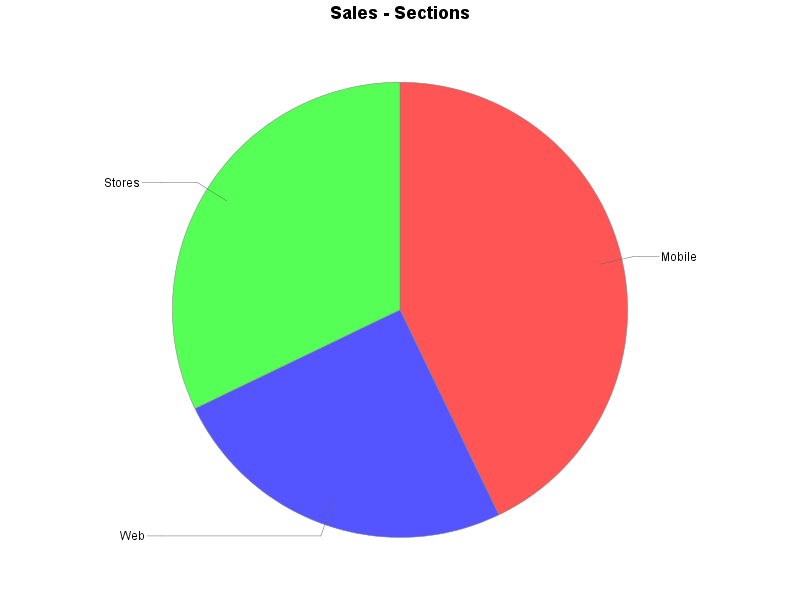
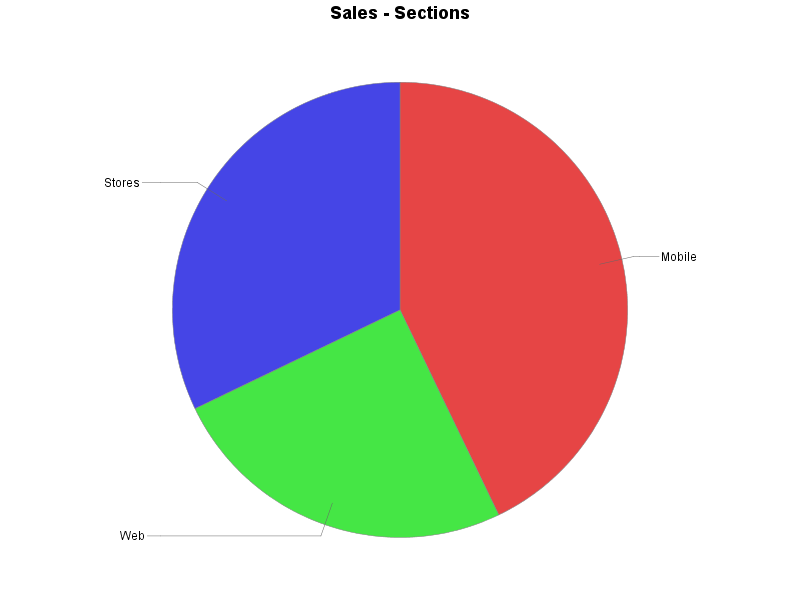
add data color theme support (wheen and random)

diff --git a/ch.obermuhlner.csv2chart/src/main/java/ch/obermuhlner/csv2chart/Application.java b/ch.obermuhlner.csv2chart/src/main/java/ch/obermuhlner/csv2chart/Application.java
@@ -1,9 +1,6 @@
 package ch.obermuhlner.csv2chart;
 
-import java.awt.BasicStroke;
-import java.awt.Color;
-import java.awt.Font;
-import java.awt.Rectangle;
+import java.awt.*;
 import java.io.BufferedOutputStream;
 import java.io.BufferedReader;
 import java.io.File;
@@ -16,11 +13,9 @@ import java.io.Reader;
 import java.io.Writer;
 import java.nio.file.Path;
 import java.nio.file.Paths;
-import java.util.ArrayList;
+import java.util.*;
 import java.util.List;
-import java.util.Locale;
 import java.util.Map.Entry;
-import java.util.Properties;
 
 import org.jfree.chart.ChartUtilities;
 import org.jfree.chart.JFreeChart;
@@ -28,12 +23,7 @@ import org.jfree.chart.StandardChartTheme;
 import org.jfree.chart.block.BlockBorder;
 import org.jfree.chart.labels.BubbleXYItemLabelGenerator;
 import org.jfree.chart.labels.StandardXYItemLabelGenerator;
-import org.jfree.chart.plot.CategoryPlot;
-import org.jfree.chart.plot.MultiplePiePlot;
-import org.jfree.chart.plot.PieLabelLinkStyle;
-import org.jfree.chart.plot.PiePlot;
-import org.jfree.chart.plot.Plot;
-import org.jfree.chart.plot.XYPlot;
+import org.jfree.chart.plot.*;
 import org.jfree.chart.renderer.category.BarRenderer;
 import org.jfree.chart.renderer.category.CategoryItemRenderer;
 import org.jfree.chart.renderer.category.StandardBarPainter;
@@ -136,12 +126,12 @@ public class Application {
 			
 			ChartFactory chartFactory = createChartFactory(parameters);
 			JFreeChart chart = chartFactory.createChart(dataModel, parameters);
-			modifyTheme(chart, parameters);
+			modifyTheme(chart, dataModel, parameters);
 			
 			saveChartImage(chart, baseFilename, parameters);
 		}		
 	}
-	
+
 	private static void printHelp() {
 		System.out.println("NAME");
 		System.out.println("    csv2chart - create chart from csv file");
@@ -226,7 +216,7 @@ public class Application {
 		}
 	}
 
-	private static void modifyTheme(JFreeChart chart, Parameters parameters) {
+	private static void modifyTheme(JFreeChart chart, DataModel dataModel, Parameters parameters) {
 		String fontName = "Helvetica";
 		
 		StandardChartTheme theme = (StandardChartTheme) org.jfree.chart.StandardChartTheme.createJFreeTheme();
@@ -234,7 +224,16 @@ public class Application {
 		chart.setTextAntiAlias(true);
 		chart.setAntiAlias(true);
 
+		DrawingSupplier drawingSupplier = new DefaultDrawingSupplier(
+				createColors(parameters),
+				DefaultDrawingSupplier.DEFAULT_FILL_PAINT_SEQUENCE,
+				DefaultDrawingSupplier.DEFAULT_OUTLINE_PAINT_SEQUENCE,
+				DefaultDrawingSupplier.DEFAULT_STROKE_SEQUENCE,
+				DefaultDrawingSupplier.DEFAULT_OUTLINE_STROKE_SEQUENCE,
+				DefaultDrawingSupplier.DEFAULT_SHAPE_SEQUENCE);
+
 		//theme.setTitlePaint(Color.decode("#4572a7"));
+		theme.setDrawingSupplier(drawingSupplier);
 		theme.setExtraLargeFont(new Font(fontName, Font.BOLD, 18)); // title
 		theme.setLargeFont(new Font(fontName, Font.BOLD, 14)); // axis-title
 		theme.setRegularFont(new Font(fontName, Font.PLAIN, 12));
@@ -316,6 +315,52 @@ public class Application {
 		if (legend != null) {
 			legend.setFrame(BlockBorder.NONE);
 		}
+	}
+
+	private static Paint[] createColors(Parameters parameters) {
+		switch (parameters.dataColors) {
+			case WHEEL:
+				return createWheelColors(parameters);
+			case RANDOM:
+				return createRandomColors(parameters);
+		}
+		throw new IllegalArgumentException("Unknown DataColors: " + parameters.dataColors);
+	}
+
+	private static Paint[] createRandomColors(Parameters parameters) {
+		int n = 100;
+
+		Random random = new Random(1);
+		Paint[] paints = new Paint[n];
+
+		for (int i = 0; i < n; i++) {
+			paints[i] = Color.getHSBColor(random.nextFloat(), (float) parameters.dataColorSaturation, (float) parameters.dataColorBrightness);
+		}
+
+		return paints;
+	}
+
+	private static Paint[] createWheelColors(Parameters parameters) {
+		int n = 360;
+		Paint[] paints = new Paint[n];
+		boolean[] wheelPaints = new boolean[n];
+
+		int paintIndex = 0;
+		int wheelStep = 3;
+		while (paintIndex < n) {
+			int step = n / wheelStep;
+			for (int angle = 0; angle < n; angle+=step) {
+				if (!wheelPaints[angle]) {
+					float hue = ((float) angle) / n;
+					Paint paint = Color.getHSBColor(hue, (float) parameters.dataColorSaturation, (float) parameters.dataColorBrightness);
+					wheelPaints[angle] = true;
+					paints[paintIndex++] = paint;
+				}
+			}
+			wheelStep += wheelStep;
+		}
+
+		return paints;
 	}
 
 	private static void setPiePlotStyle(PiePlot piePlot) {

diff --git a/ch.obermuhlner.csv2chart/src/main/java/ch/obermuhlner/csv2chart/Parameters.java b/ch.obermuhlner.csv2chart/src/main/java/ch/obermuhlner/csv2chart/Parameters.java
@@ -109,15 +109,41 @@ public class Parameters implements Cloneable {
 	
 	@Parameter(
 			name = "value-labels",
-			description = "Labels appear next to the values where possible.\n"
+			description = ""
+					+ "Labels appear next to the values where possible.\n"
 					+ "Default: Dynamically determined by the parameter 'value-labels-threshold'")
 	public Boolean valueLabels;
 
 	@Parameter(
 			name = "legend",
-			description = "Shows a legend for the value categories where necessary.\n"
+			description = ""
+					+ "Shows a legend for the value categories where necessary.\n"
 					+ "Default: Dynamically determined (generally true)")
 	public Boolean legend;
+
+	@Parameter(
+			name = "data-colors",
+			description = ""
+					+ "Color scheme to render data.\n"
+					+ "Supported schemes: wheel, random\n"
+					+ "Default: wheel")
+	public DataColors dataColors = DataColors.WHEEL;
+
+	@Parameter(
+			name = "data-color-saturation",
+			description = ""
+					+ "Saturation of data colors.\n"
+					+ "Supported values: 0.0 - 1.0\n"
+					+ "Default: 0.7")
+	public double dataColorSaturation = 0.7;
+
+	@Parameter(
+			name = "data-color-brightness",
+			description = ""
+					+ "Brightness of data colors.\n"
+					+ "Supported values: 0.0 - 1.0\n"
+					+ "Default: 0.9")
+	public double dataColorBrightness = 0.9;
 
 	@Parameter(
 			name = "scale-min-value",

diff --git a/ch.obermuhlner.csv2chart/src/main/java/ch/obermuhlner/csv2chart/DataColors.java b/ch.obermuhlner.csv2chart/src/main/java/ch/obermuhlner/csv2chart/DataColors.java
@@ -1,0 +1,6 @@
+package ch.obermuhlner.csv2chart;
+
+public enum DataColors {
+    WHEEL,
+    RANDOM
+}
